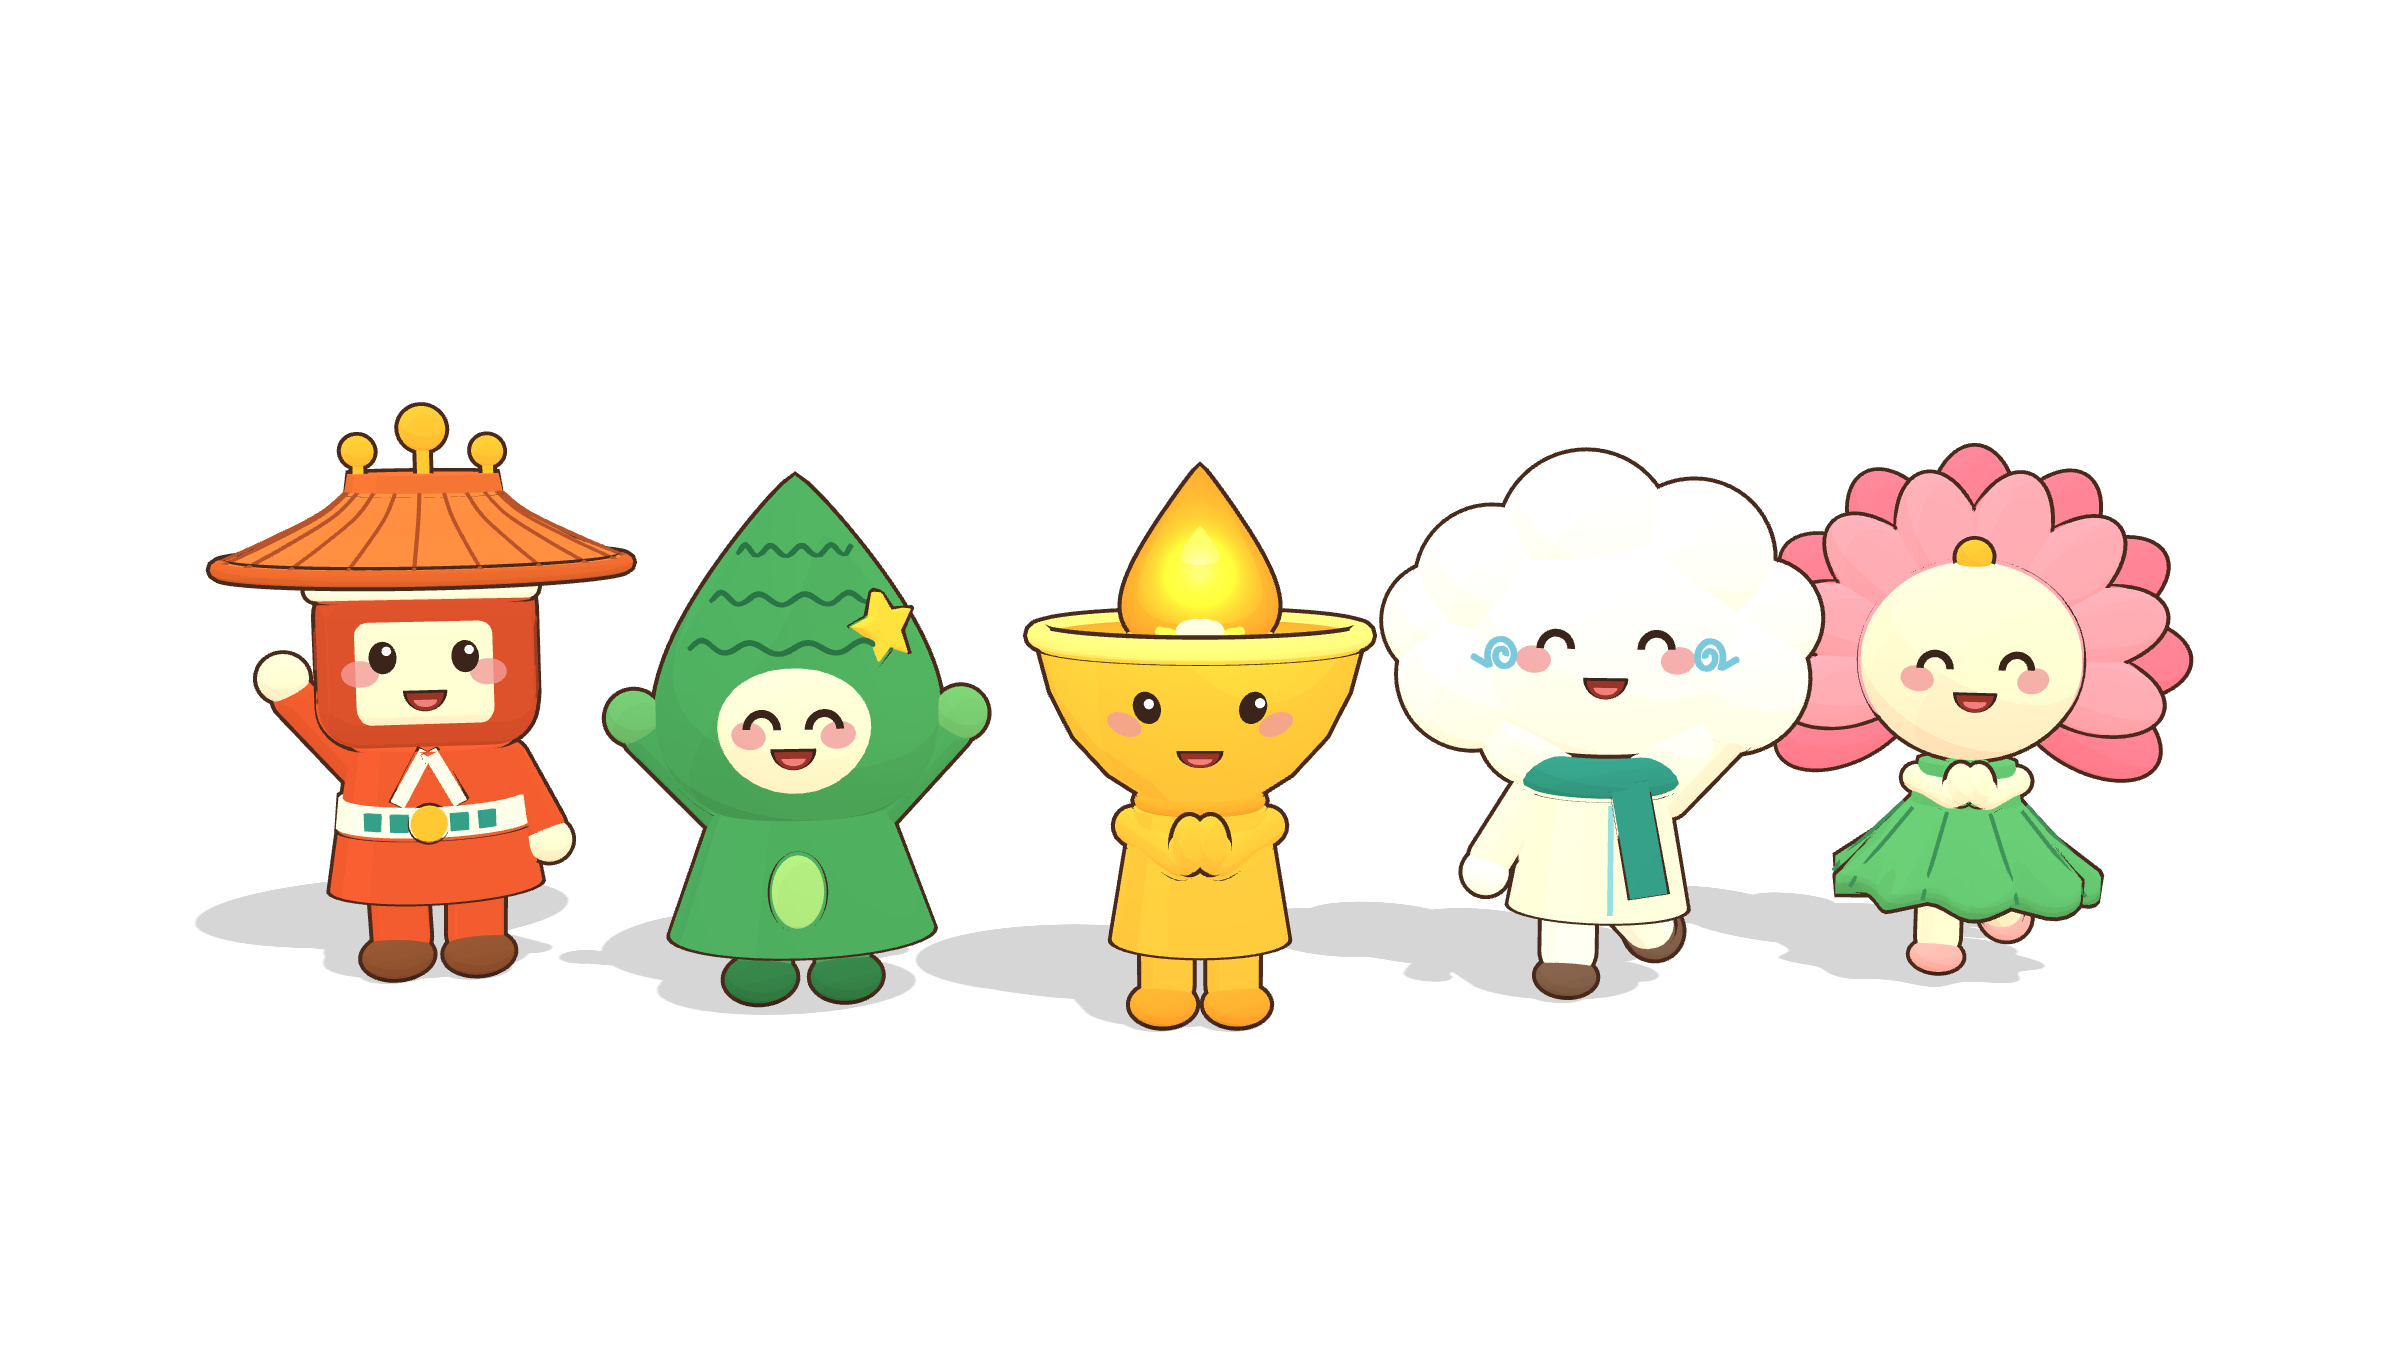
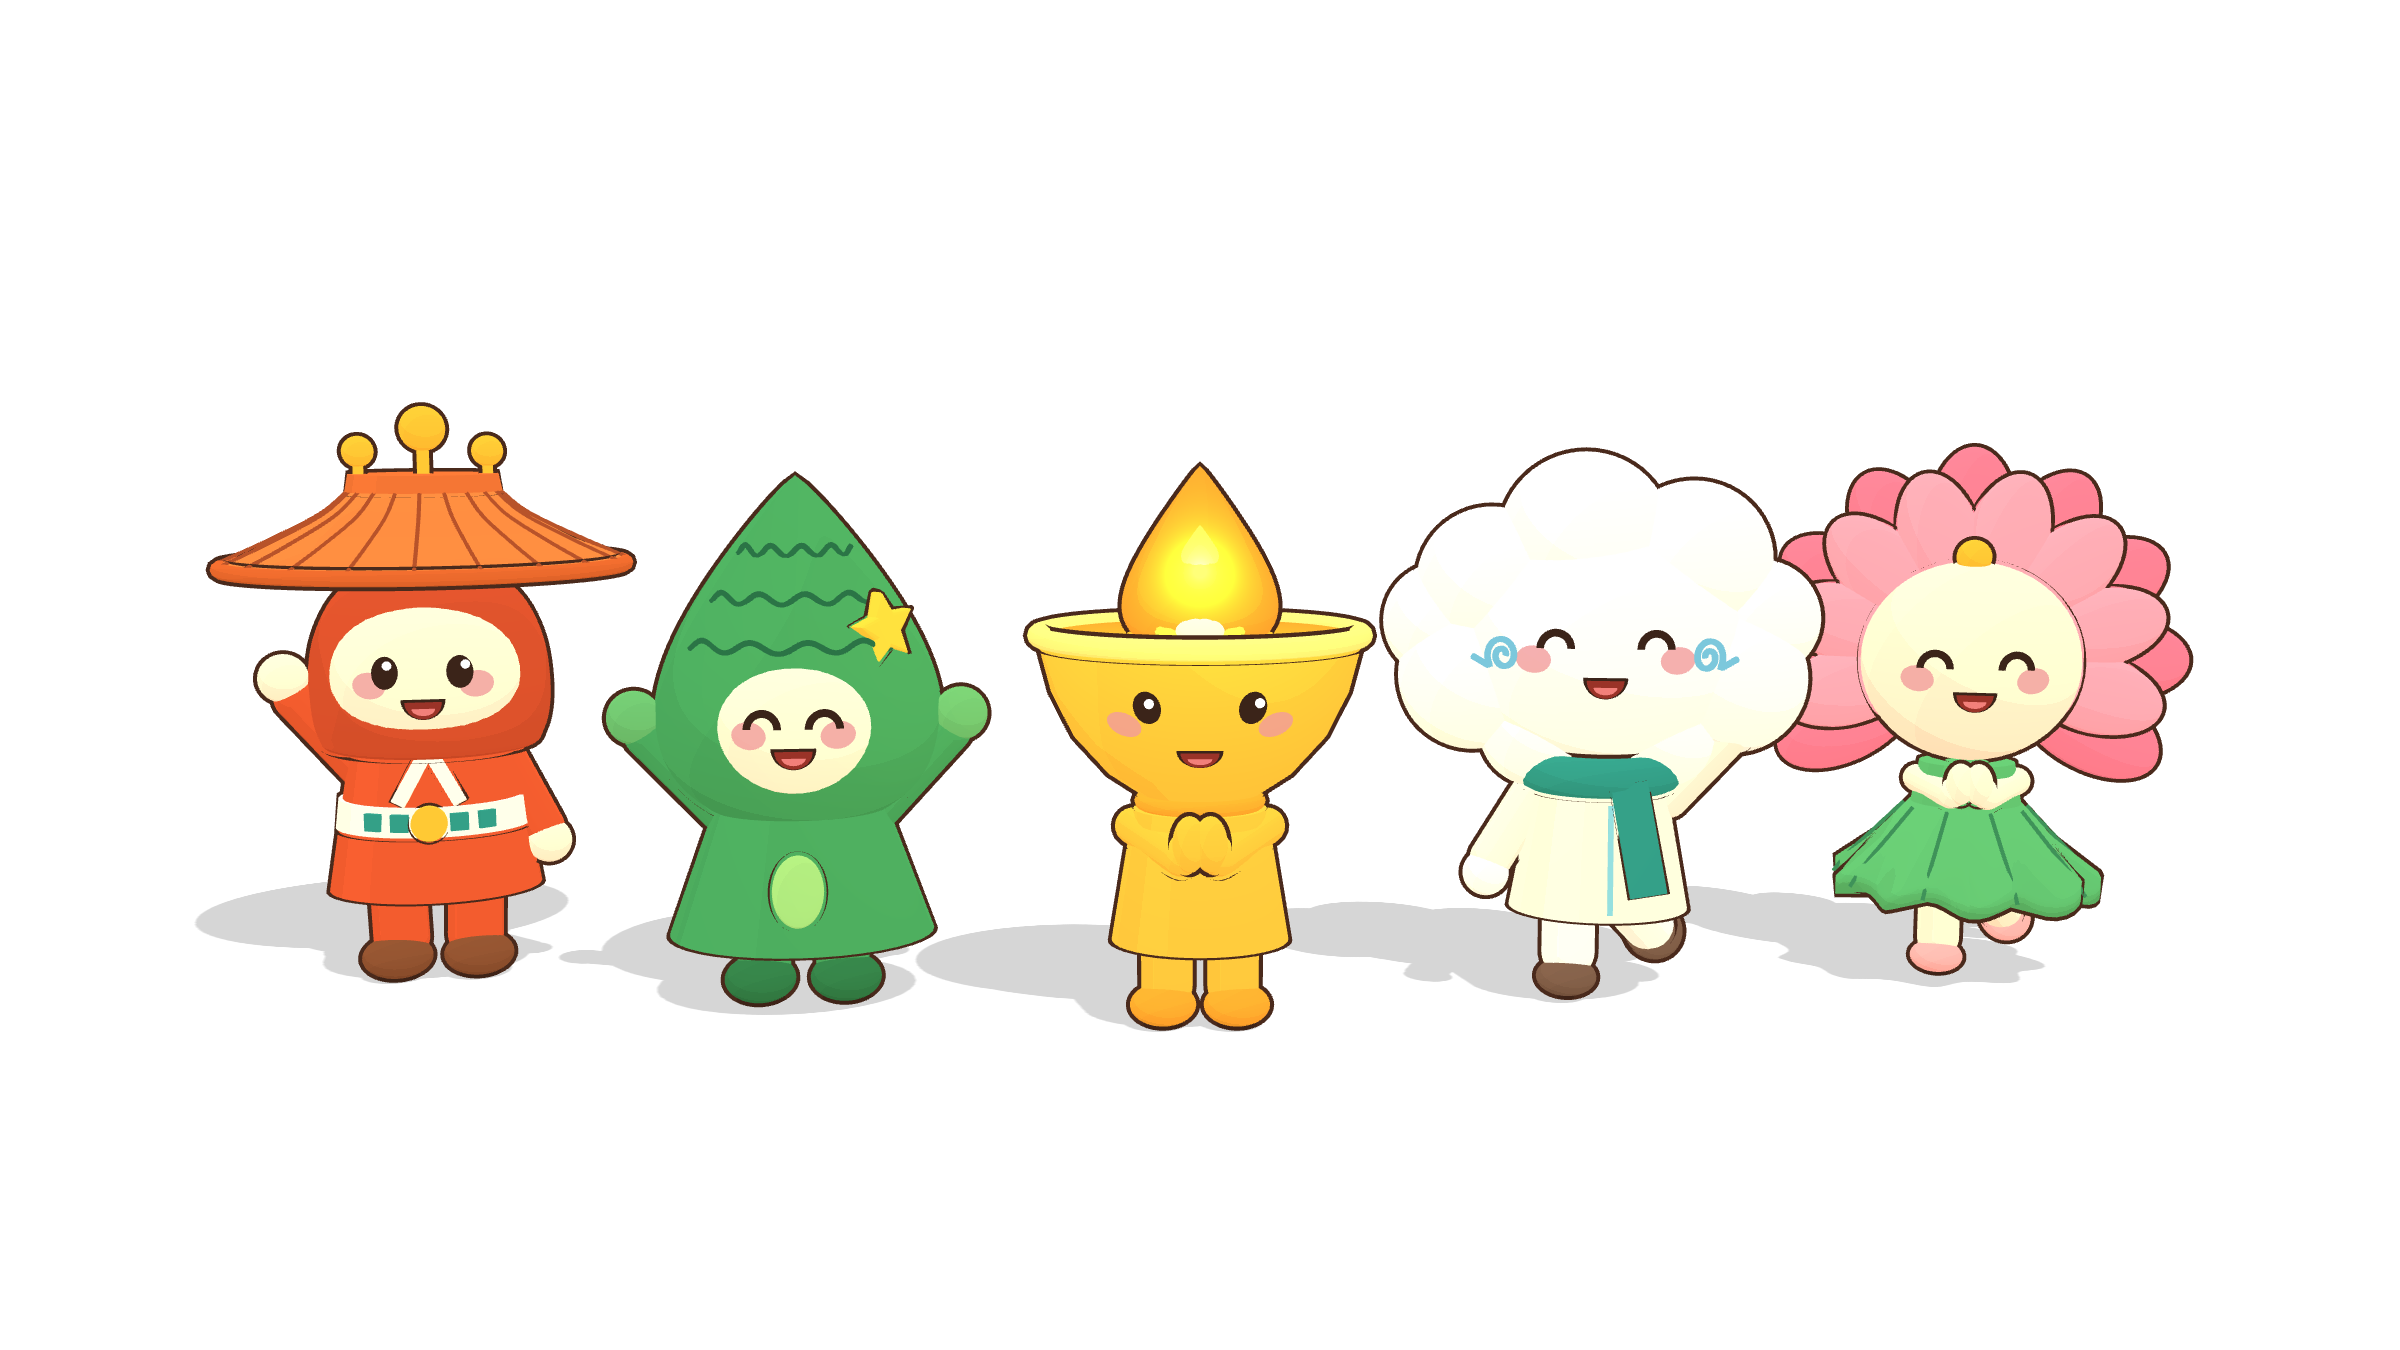
全全 3D 改回貼近 2D 原圖：圓潤頭罩＋大圓臉，去掉兩側鼓包

Changed region(s): [[0.125, 0.4356, 0.25, 0.5911]]

diff --git a/mascots3d.js b/mascots3d.js
@@ -1,7 +1,6 @@
 // 五位吉祥物的 3D 模型（以基本幾何組成，卡通著色＋描邊）
 import * as THREE from 'three';
 import { mergeVertices } from 'three/addons/utils/BufferGeometryUtils.js';
-import { RoundedBoxGeometry } from 'three/addons/geometries/RoundedBoxGeometry.js';
 
 const V2 = (x, y) => new THREE.Vector2(x, y);
 const V3 = (x, y, z) => new THREE.Vector3(x, y, z);
@@ -173,25 +172,12 @@ function quanquan() {
   limb(g, [0.42, 1.25, 0], [0.62, 0.86, 0.08], 0.12, RED);
   part(S(0.13), FACE, { parent: g, pos: [0.65, 0.78, 0.1] });
 
-  // 頭：紅磚小屋（圓角方塊），白色簷帶，正面是臉
-  part(new RoundedBoxGeometry(1.2, 1.0, 0.98, 6, 0.24), HOOD, { parent: g, pos: [0, 1.88, 0] });
-  part(new RoundedBoxGeometry(1.26, 0.13, 1.04, 4, 0.06), WHITE, { parent: g, pos: [0, 2.31, 0] });
-  const seam = flat('#9e3d22');
-  for (const s of [-1, 1]) {
-    for (const [y, z, w] of [[1.66, 0, 0.6], [1.86, 0.1, 0.5], [2.06, -0.05, 0.6]]) {
-      const b = new THREE.Mesh(box(0.01, 0.025, w), seam);
-      b.position.set(s * 0.603, y, z);
-      g.add(b);
-    }
-    for (const [y, z] of [[1.76, 0.2], [1.76, -0.2], [1.96, -0.12], [1.96, 0.3]]) {
-      const b = new THREE.Mesh(box(0.01, 0.2, 0.025), seam);
-      b.position.set(s * 0.603, y, z);
-      g.add(b);
-    }
-  }
-  part(new RoundedBoxGeometry(0.88, 0.7, 0.3, 6, 0.14), FACE, { parent: g, pos: [0, 1.84, 0.36] });
-  const panel = (yaw, pitch, off = 0.008) => ({ p: V3(yaw * 0.62, 1.84 + pitch * 0.6, 0.51 + off), n: Z.clone() });
-  face(g, panel, { eyes: 'open', spread: 0.36, eyeY: 0.14, mouthY: -0.2, blushOut: 0.2, blushY: -0.15 });
+  // 頭：圓潤的紅色頭罩（鐘形，下緣略寬、無兩側鼓包），大圓臉在正面
+  const hoodCurve = new THREE.SplineCurve([[0, 0], [0.52, 0], [0.64, 0.1], [0.68, 0.34], [0.64, 0.66], [0.5, 0.92], [0.26, 1.05], [0, 1.08]].map(([x, y]) => V2(x, y)));
+  part(new THREE.LatheGeometry(hoodCurve.getPoints(48), 64), HOOD, { parent: g, pos: [0, 1.34, 0] });
+  const fc = [0, 1.8, 0.32], fr = [0.54, 0.48, 0.42];
+  part(S(1), FACE, { parent: g, pos: fc, scale: fr });
+  face(g, ellipsoidSurf(fc, fr), { eyes: 'open', spread: 0.38, eyeY: 0.12, mouthY: -0.22, blushOut: 0.18, blushY: -0.15 });
 
   // 琉璃屋頂
   const roofPts = [[0, 0], [1.12, 0], [1.14, 0.05], [0.85, 0.17], [0.55, 0.33], [0.4, 0.46], [0, 0.48]];
